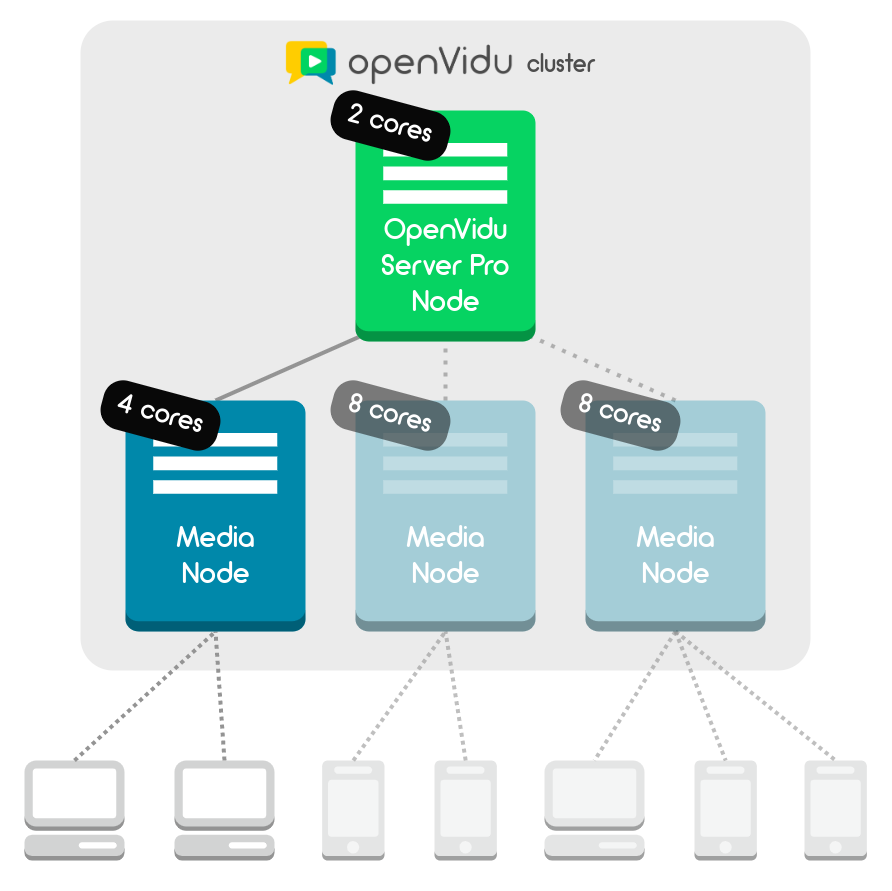
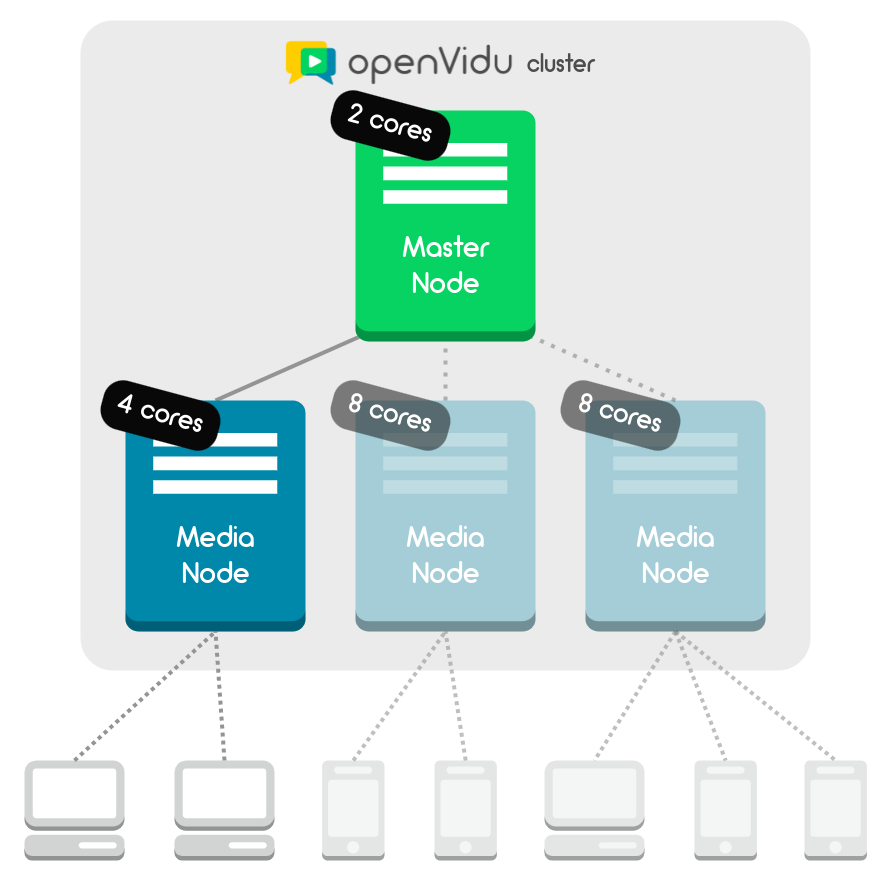
Update images and features table

diff --git a/pricing.html b/pricing.html
@@ -193,6 +193,16 @@ top-subtitle: Choose your preferred tier according to your needs
                                 <td><i class="icon ion-checkmark pricing-table-icon"></i></td>
                             </tr>
                             <tr>
+                                <th scope="row">High Availability</th>
+                                <td scope="row"><i
+                                        class="icon ion-information-circled pricing-table-icon-info"
+                                        data-toggle="tooltip" data-placement="right"
+                                        title="Replication and decentralization of all nodes in AWS. Load balancing of clients"></td>
+                                <td><i class="icon ion-close pricing-table-icon"></i></td>
+                                <td><i class="icon ion-close pricing-table-icon"></i></td>
+                                <td><i class="icon ion-checkmark pricing-table-icon"></i></td>
+                            </tr>
+                            <tr>
                                 <th scope="row">VP9</th>
                                 <td scope="row"><i
                                         class="icon ion-information-circled pricing-table-icon-info"
@@ -200,7 +210,8 @@ top-subtitle: Choose your preferred tier according to your needs
                                         title="Advanced codec by supported devices"></td>
                                 <td><i class="icon ion-close pricing-table-icon"></i></td>
                                 <td><i class="icon ion-close pricing-table-icon"></i></td>
-                                <td><i class="icon ion-checkmark pricing-table-icon"></i></td>
+                                <td><i class="icon ion-hammer pricing-table-icon" data-toggle="tooltip"
+                                    data-placement="right" title="Work in progress"></i></td>
                             </tr>
                             <tr>
                                 <th scope="row">Large scale sessions</th>
@@ -208,17 +219,6 @@ top-subtitle: Choose your preferred tier according to your needs
                                         class="icon ion-information-circled pricing-table-icon-info"
                                         data-toggle="tooltip" data-placement="right"
                                         title="Support for sessions with hundreds or even thousands of users"></td>
-                                <td><i class="icon ion-close pricing-table-icon"></i></td>
-                                <td><i class="icon ion-close pricing-table-icon"></i></td>
-                                <td><i class="icon ion-hammer pricing-table-icon" data-toggle="tooltip"
-                                        data-placement="right" title="Work in progress"></i></td>
-                            </tr>
-                            <tr>
-                                <th scope="row">High Availability</th>
-                                <td scope="row"><i
-                                        class="icon ion-information-circled pricing-table-icon-info"
-                                        data-toggle="tooltip" data-placement="right"
-                                        title="Replication and decentralization of all nodes in AWS. Load balancing of clients"></td>
                                 <td><i class="icon ion-close pricing-table-icon"></i></td>
                                 <td><i class="icon ion-close pricing-table-icon"></i></td>
                                 <td><i class="icon ion-hammer pricing-table-icon" data-toggle="tooltip"
@@ -334,7 +334,7 @@ top-subtitle: Choose your preferred tier according to your needs
                 </div>
                 </div>
 
-                OpenVidu Pro is deployed as a cluster following a Master-Slave model (take a look to its
+                OpenVidu Pro is deployed as a cluster following a Master-Worker model (take a look to its
                 <a href="https://docs.openvidu.io/en/stable/openvidu-pro/scalability/#openvidu-pro-architecture"
                     target="_blank">architecture</a>).
                 Every minute is charged based on how many CPU cores are available for your cluster(s). OpenVidu Pro is
@@ -356,8 +356,7 @@ top-subtitle: Choose your preferred tier according to your needs
                         all Nodes have the same core per minute price.</li>
                     <li>Your cluster (specifically your <a
                             href="https://docs.openvidu.io/en/stable/openvidu-pro/scalability/#openvidu-pro-architecture"
-                            target="_blank">OpenVidu
-                            Server Pro Node</a>) needs Internet access at all times. If your specific use case
+                            target="_blank">Master Node</a>) needs Internet access at all times. If your specific use case
                         doesn't allow your cluster to have Internet access, please contact us through <a href="/support"
                             target="_blank">Commercial page</a>.</li>
                 </ol>
@@ -409,7 +408,7 @@ top-subtitle: Choose your preferred tier according to your needs
                 <div class="row price-row">
                     <div class="col-sm-6 col-xs-12">
                         <h4 style="text-align: left">Cluster with 6 cores in total</h4>
-                        <span>Let's suppose we have our OpenVidu Server Pro Node running in a
+                        <span>Let's suppose we have our Master Node running in a
                             2-core server and a single Media Node running in a 4-core server. This topology should be
                             enough for many use cases that do not expect tons of media streams established at the same
                             time.<br><br>
@@ -433,7 +432,7 @@ top-subtitle: Choose your preferred tier according to your needs
                 <div class="row price-row">
                     <div class="col-sm-6 col-xs-12">
                         <h4 style="text-align: left">Cluster with 10 cores in total</h4>
-                        <span>If we have our OpenVidu Server Pro Node running in a
+                        <span>If we have our Master Node running in a
                             2-core server and 2 Media Nodes running in 4-core servers, prices will be the following
                             ones:<br><br>
                             8 hours of use would cost:<br><span class="price-calc">8 hours * 60 minutes/hour * 10 cores
@@ -457,7 +456,7 @@ top-subtitle: Choose your preferred tier according to your needs
                 <div class="row price-row">
                     <div class="col-sm-6 col-xs-12">
                         <h4 style="text-align: left">Cluster with 18 cores in total</h4>
-                        <span>Let's suppose we have our OpenVidu Server Pro Node running in a
+                        <span>Let's suppose we have our Master Node running in a
                             2-core server and 2 Media Nodes running in 8-core servers. This cluster is pretty powerful
                             and should be able to handle a considerable amount of users.<br><br>
                             8 hours of use would cost:<br><span class="price-calc">8 hours * 60 minutes/hour * 18 cores
@@ -483,7 +482,7 @@ top-subtitle: Choose your preferred tier according to your needs
                         <h4 id="cluster-with-a-variable-number-of-cores" style="text-align: left">Cluster with a
                             variable number of cores</h4>
                         <span>This use case takes advantage of OpenVidu Pro scalablity features. Let's suppose we
-                            deploy a cluster with the OpenVidu Server Pro Node running in a 2-core server and a single
+                            deploy a cluster with the Master Node running in a 2-core server and a single
                             Media Node running in a 4-core server.<br><br>
                             We are fine running this cluster configuration during 8 hours. But suddenly we see a peak in
                             the demand, so we add 2 new Media Nodes to the cluster in 8-core servers to attend the
@@ -642,7 +641,7 @@ top-subtitle: Choose your preferred tier according to your needs
                 sessions where every participant sends one audio-video stream (540x360, 30 fps) and receives 6 remote
                 streams (same video). The table states the maximum number of entities that can be established until the
                 Media Node CPU reaches 100% use. Take into account from a pricing point that the number of cores in each
-                column header does not sum up the total number of cores of the cluster (OpenVidu Server Pro Node cores
+                column header does not sum up the total number of cores of the cluster (Master Node cores
                 should also be counted).
 
                 <div class="row" style="margin: 10px; text-align: center; text-align: -webkit-center">
@@ -687,10 +686,10 @@ top-subtitle: Choose your preferred tier according to your needs
 
                 <h4>1. If I don't have any ongoing video session in my OpenVidu Pro cluster, do I have to pay?</h4>
                 Yes, OpenVidu Pro license is charged for any running OpenVidu Pro cluster, even when there are no active
-                sessions. If your cluster is on, you will at least have to pay for the OpenVidu Server Pro Node. But
+                sessions. If your cluster is on, you will at least have to pay for the Master Node. But
                 remember you can drop Media Nodes to reduce the cluster size and reduce your bill according to user
                 load. And as a definite measure you can always turn off the cluster so you don't even pay for the
-                OpenVidu Server Pro Node.<br><br>
+                Master Node.<br><br>
 
                 <h4>2. What is the price per minute of each call?</h4>
                 The cost per minute of video call depends very much on the utilization ratio of your OpenVidu Pro

diff --git a/index.html b/index.html
@@ -589,6 +589,16 @@ page-type: home
                         <td><i class="icon ion-checkmark pricing-table-icon"></i></td>
                     </tr>
                     <tr>
+                        <th scope="row">High Availability</th>
+                        <td scope="row"><i
+                                class="icon ion-information-circled pricing-table-icon-info"
+                                data-toggle="tooltip" data-placement="right"
+                                title="Replication and decentralization of all nodes in AWS. Load balancing of clients"></td>
+                        <td><i class="icon ion-close pricing-table-icon"></i></td>
+                        <td><i class="icon ion-close pricing-table-icon"></i></td>
+                        <td><i class="icon ion-checkmark pricing-table-icon"></i></td>
+                    </tr>
+                    <tr>
                         <th scope="row">VP9</th>
                         <td scope="row"><i
                                 class="icon ion-information-circled pricing-table-icon-info"
@@ -605,17 +615,6 @@ page-type: home
                                 class="icon ion-information-circled pricing-table-icon-info"
                                 data-toggle="tooltip" data-placement="right"
                                 title="Support for sessions with hundreds or even thousands of users"></td>
-                        <td><i class="icon ion-close pricing-table-icon"></i></td>
-                        <td><i class="icon ion-close pricing-table-icon"></i></td>
-                        <td><i class="icon ion-hammer pricing-table-icon" data-toggle="tooltip"
-                                data-placement="right" title="Work in progress"></i></td>
-                    </tr>
-                    <tr>
-                        <th scope="row">High Availability</th>
-                        <td scope="row"><i
-                                class="icon ion-information-circled pricing-table-icon-info"
-                                data-toggle="tooltip" data-placement="right"
-                                title="Replication and decentralization of all nodes in AWS. Load balancing of clients"></td>
                         <td><i class="icon ion-close pricing-table-icon"></i></td>
                         <td><i class="icon ion-close pricing-table-icon"></i></td>
                         <td><i class="icon ion-hammer pricing-table-icon" data-toggle="tooltip"
